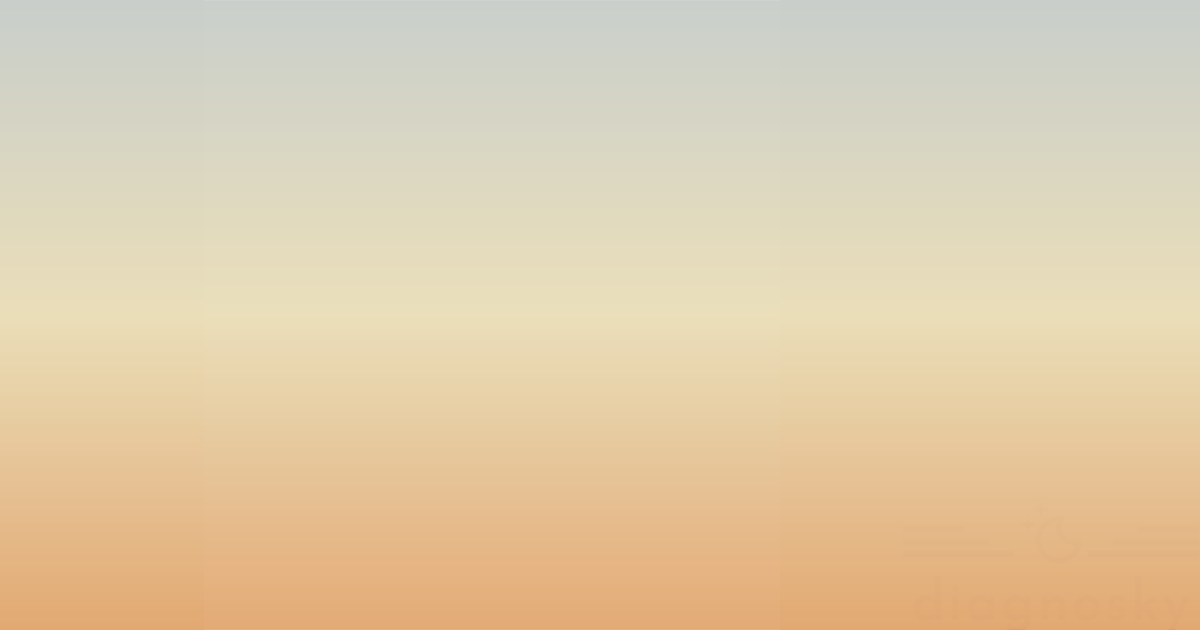
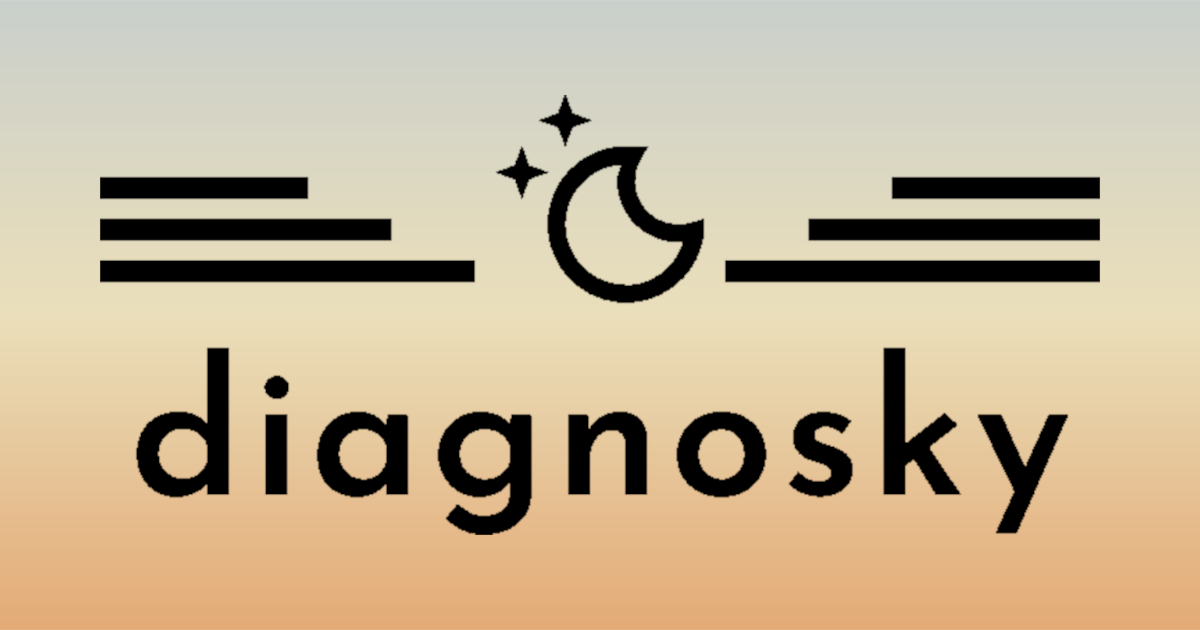
メタタグ関係

Changed region(s): [[0.0925, 0.5429, 0.8942, 0.8444], [0.4008, 0.1508, 0.925, 0.4825], [0.0617, 0.2714, 0.4008, 0.4524]]

diff --git a/app/trend/layout.tsx b/app/trend/layout.tsx
@@ -1,16 +1,21 @@
-export const metadata = {
-  title: 'trend',
-  description: '埋め込み用',
-}
+import type { Metadata } from "next";
+
+export const metadata: Metadata = {
+	title: "trend",
+	description: "埋め込み用",
+	robots: { index: false, follow: false },
+};
 
 export default function RootLayout({
-  children,
+	children,
 }: {
-  children: React.ReactNode
+	children: React.ReactNode;
 }) {
-  return (
-    <html lang="ja" style={{overflow:'hidden'}}>
-      <body style={{margin:0,padding:0,display:'flex',flexDirection:'column',width:'480px',overflow:'hidden'}}>{children}</body>
-    </html>
-  )
+	return (
+		<html lang="ja" style={{ overflow: "hidden" }}>
+			<body style={{ margin: 0, padding: 0, display: "flex", flexDirection: "column", width: "480px", overflow: "hidden" }}>
+				{children}
+			</body>
+		</html>
+	);
 }

diff --git a/app/(main)/layout.tsx b/app/(main)/layout.tsx
@@ -1,14 +1,24 @@
 import type { Metadata } from "next";
 import "./globals.css";
-import type { Viewport } from 'next';
+import type { Viewport } from "next";
 import { Header } from "./header";
 
 export const viewport: Viewport = {
 	width: "500",
-}
+};
 export const metadata: Metadata = {
 	title: "diagnosky",
 	description: "Bluesky向けの診断メーカーです。",
+	openGraph: {
+		type: "website",
+		locale: "ja_JP",
+		siteName: "diagnosky",
+		title: "diagnosky",
+		description: "Bluesky向けの診断メーカーです。",
+		images: { url: "https://diagnosky.vercel.app/ogp.png" },
+	},
+	icons:{icon:"/favicon.ico"},
+	robots:{index:true,follow:true,}
 };
 
 export default function RootLayout({

diff --git a/app/(main)/page.tsx b/app/(main)/page.tsx
@@ -1,8 +1,21 @@
-
 export const dynamic = "force-static";
 export default function Home() {
+	const jsonld = {
+		"@context": "http://schema.org",
+		"@type": "WebSite",
+		name: "diagnosky",
+		url: "https://diagnosky.vercel.app/",
+		headline: "diagnosky",
+		description: "Bluesky向けの診断メーカーです。",
+		image: {
+			"@type": "ImageObject",
+			url: "/favicon.ico",
+		},
+	};
 	return (
 		<>
+			{/* biome-ignore lint/security/noDangerouslySetInnerHtml: <explanation> */}
+			<script type="application/ld+json" dangerouslySetInnerHTML={{ __html: JSON.stringify(jsonld) }} />
 			<h1>diagnosky</h1>
 			<p>
 				Bluesky向けの診断メーカーです。
